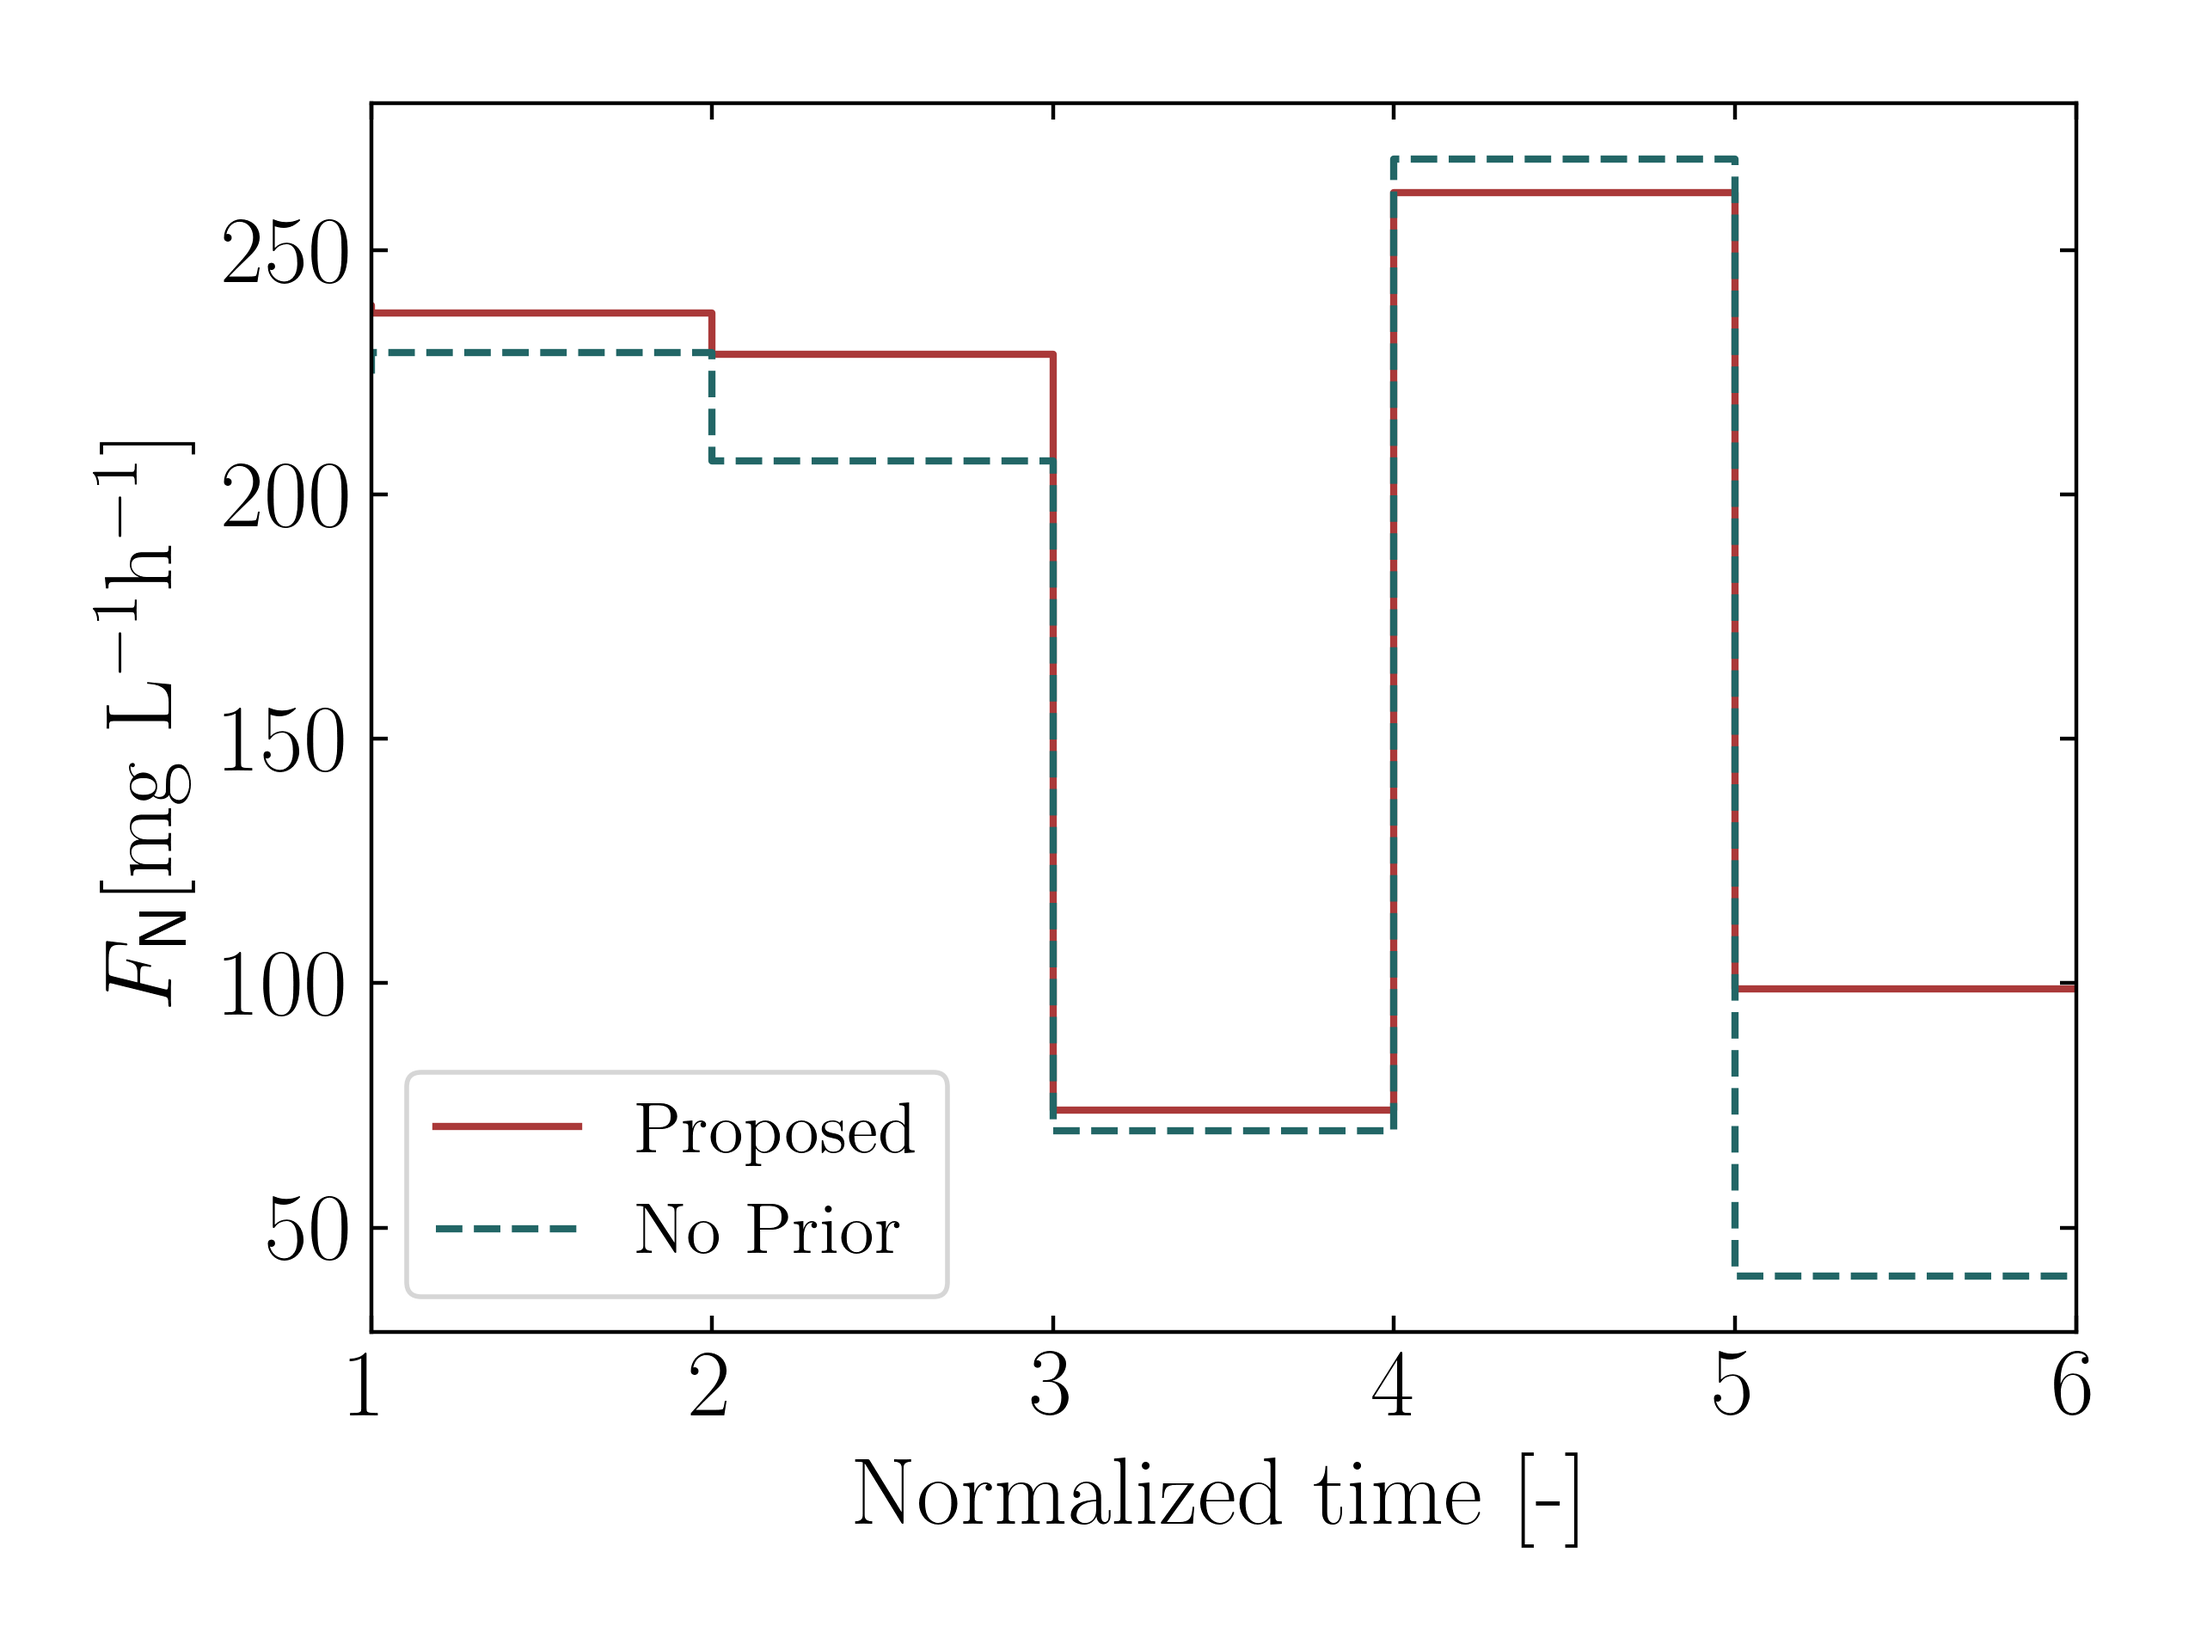
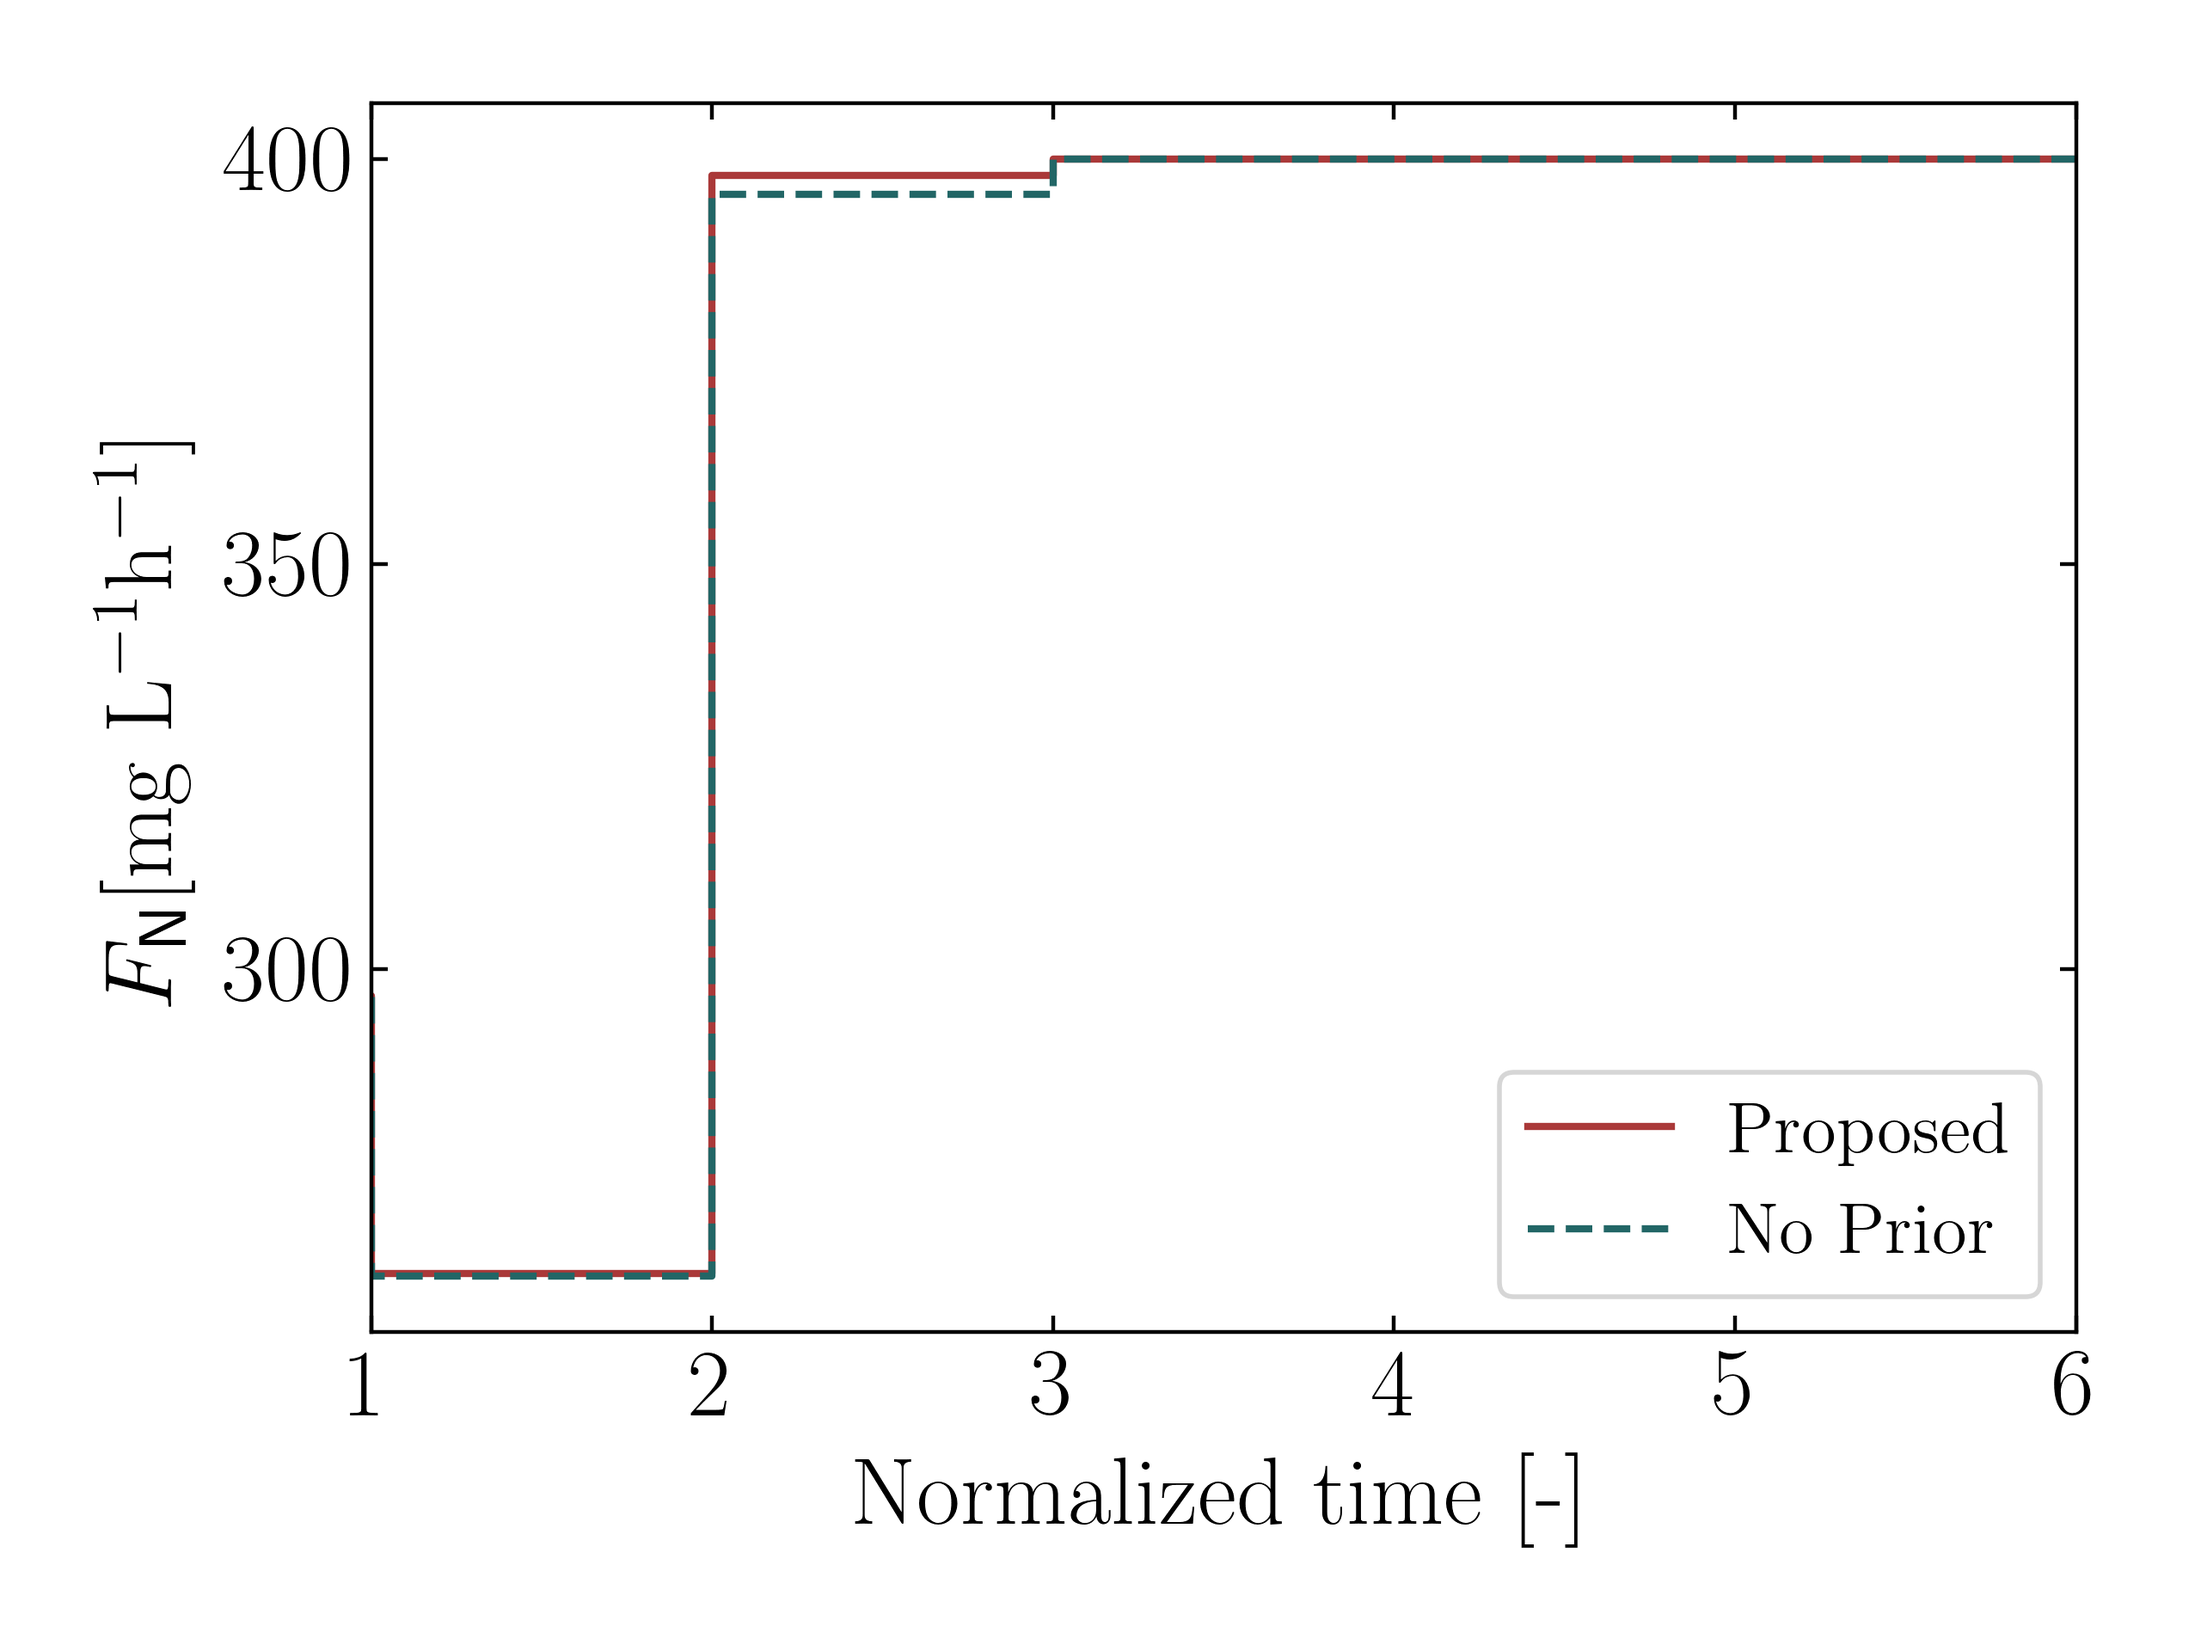
update_ploting

diff --git a/plots_RTO.py b/plots_RTO.py
@@ -854,3 +854,66 @@ plt.tick_params(axis="x", direction="in")
 plt.tight_layout()
 plt.savefig('figs_WO/f_N.png', dpi=400)
 plt.close()
+
+
+
+X_opt_mc, y_opt_mc, TR_l_mc, xnew_mc, backtrack_1_mc = pickle.load(open('no_prior_with_exploration_ei_no_red_constraint_violation_GP.p', 'rb'))
+X_opt_mc_model, y_opt_mc, TR_l_mc, xnew_mc, backtrack_1_mc = pickle.load(open('prior_with_exploration_ei_no_red_constraint_violation.p', 'rb'))
+csfont = {'fontname': 'Times New Roman'}
+
+# plt.rcParams['font.sans-serif'] = "Arial"
+plt.rcParams['font.family'] = "Times New Roman"
+ni = 50
+ft = int(20)
+font = {'size': ft}
+plt.rc('font', **font)
+plt.rc('text', usetex=True)
+params = {'legend.fontsize': 15,
+          'legend.handlelength': 2}
+plt.rcParams.update(params)
+
+plt.step(np.linspace(0,6,7),40*np.array([np.array(X_opt_mc)[3,-1,0].T,*np.array(X_opt_mc)[3,-1,0::2].T]), where='pre',
+         color='#AA3939', label='Proposed')
+plt.step(np.linspace(0,6,7),40*np.array([np.array(X_opt_mc_model)[4,-1,0].T,*np.array(X_opt_mc_model)[4,-1,0::2].T]),'--',where='pre'
+         ,color='#226666', label='No Prior')
+
+plt.ylabel('$I [\mu$mol m$^{-2}$s$^{-1}]$ ')
+plt.xlabel('Normalized time [-]')
+plt.xlim(1, 6)
+plt.legend()
+plt.tick_params(right=True, top=True, left=True, bottom=True)
+plt.tick_params(axis="y", direction="in")
+plt.tick_params(axis="x", direction="in")
+plt.tight_layout()
+plt.savefig('figs_WO/I.png', dpi=400)
+plt.close()
+X_opt_mc, y_opt_mc, TR_l_mc, xnew_mc, backtrack_1_mc = pickle.load(open('no_prior_with_exploration_ei_no_red_constraint_violation_GP.p', 'rb'))
+X_opt_mc_model, y_opt_mc, TR_l_mc, xnew_mc, backtrack_1_mc = pickle.load(open('prior_with_exploration_ei_no_red_constraint_violation.p', 'rb'))
+csfont = {'fontname': 'Times New Roman'}
+
+# plt.rcParams['font.sans-serif'] = "Arial"
+plt.rcParams['font.family'] = "Times New Roman"
+ni = 50
+ft = int(20)
+font = {'size': ft}
+plt.rc('font', **font)
+plt.rc('text', usetex=True)
+params = {'legend.fontsize': 15,
+          'legend.handlelength': 2}
+plt.rcParams.update(params)
+
+plt.step(np.linspace(0,6,7),(400-120)*np.array([np.array(X_opt_mc)[3,-1,1].T,*np.array(X_opt_mc)[3,-1,1::2].T])+120, where='pre',
+         color='#AA3939', label='Proposed')
+plt.step(np.linspace(0,6,7),(400-120)*np.array([np.array(X_opt_mc_model)[4,-1,1].T,*np.array(X_opt_mc_model)[4,-1,1::2].T])+120,'--',where='pre'
+         ,color='#226666', label='No Prior')
+
+plt.ylabel('$F_{\sf N} [$mg L$^{-1}$h$^{-1}]$ ')
+plt.xlabel('Normalized time [-]')
+plt.xlim(1, 6)
+plt.legend()
+plt.tick_params(right=True, top=True, left=True, bottom=True)
+plt.tick_params(axis="y", direction="in")
+plt.tick_params(axis="x", direction="in")
+plt.tight_layout()
+plt.savefig('figs_WO/f_N.png', dpi=400)
+plt.close()
